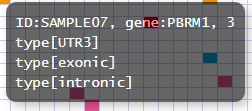
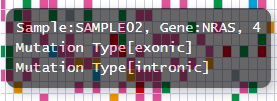
image update

diff --git a/config.rst b/config.rst
@@ -16,44 +16,44 @@
 
   ###################### Mutation Matrix
   [mut]
-  # geneのサンプルに対する検出比(%) 
-  # 値より小さいgeneはplot対象から除外する
-  # 0の場合はすべて出力する
+  # 遺伝子のサンプルに対する検出比 (%)
+  # 値より小さい遺伝子はプロット対象から除外する
+  # 0 の場合はすべて出力する
   use_gene_rate = 0
 
-  # 入力されていた場合、そのgeneのみ出力する
-  # 未入力の場合、検出されたgeneすべて出力する
+  # 入力されていた場合、その遺伝子のみ出力する
+  # 未入力の場合、検出された遺伝子すべて出力する
   # , 区切りで複数指定可能
   #
-  # limited_genes = TP,TTN,APC,BRAF,CDH1,FLT3
-  limited_genes = 
+  # limited_gene = TP,TTN,APC,BRAF,CDH1,FLT3
+  limited_gene = 
   
-  # 入力されていた場合、そのgeneはplot対象から除外する
+  # 入力されていた場合、その遺伝子はプロット対象から除外する
   # , 区切りで複数指定可能
   #
-  # nouse_genes = NONE,MUC4
-  nouse_genes =
+  # nouse_gene = NONE,MUC4
+  nouse_gene =
 
-  # 入力されていた場合、その変異タイプ(func)のみ出力する
-  # 未入力の場合、検出されたfuncすべて出力する
+  # 入力されていた場合、その変異タイプ (group) のみ出力する
+  # 未入力の場合、検出された変異タイプすべて出力する
   # , 区切りで複数指定可能
   #
-  # limited_funcs = exome,splicing
-  limited_funcs = 
+  # limited_group = exome,splicing
+  limited_group = 
   
-  # 入力されていた場合、そのfuncはplot対象から除外する
+  # 入力されていた場合、その変異タイプはプロット対象から除外する
   # , 区切りで複数指定可能
   # 空白行を除去する場合、_blank_ と記入する
-  nouse_funcs = _blank_,unknown,synonymous_SNV
+  nouse_group = _blank_,unknown,synonymous_SNV
   
-  # funcのplot色を指定する。func名:(RGBもしくは色名)
+  # 変異タイプのプロット色を指定する。変異タイプ名:(RGBもしくは色名)
   # , 区切りで複数指定可能
-  # 未入力のfuncはデフォルト色を使用する
-  func_colors = stopgain:#E85299,frameshift_deletion:#F39600,frameshift_insertion:#E60011,nonframeshift_deletion:#9CAEB7
+  # 未入力の変異タイプはデフォルト色を使用する
+  group_color = stopgain:#E85299,frameshift_deletion:#F39600,frameshift_insertion:#E60011,nonframeshift_deletion:#9CAEB7
   
   # ポップアップウィンドウの表示内容
   # 詳細はページ下段の「ポップアップウィンドウの表示内容」に記載
-  tooltip_format_checker_title1 = ID:{id}, gene:{gene}, {#sum_item_value}
+  tooltip_format_checker_title1 = Sample:{id}, gene:{gene}, {#sum_item_value}
   tooltip_format_checker_partial = type[{func}], {chr}:{start}:{end}, [{ref} -----> {alt}]
   tooltip_format_gene_title = gene:{gene}, {#sum_item_value}
   tooltip_format_gene_partial = func:{func}, {#item_value}
@@ -75,10 +75,10 @@
   # コメント行の先頭文字
   comment = #
   
-  # funcが1セルに複数入力されている場合の区切り文字
+  # 変異タイプが 1 行に複数入力されている場合の区切り文字
   sept_func = ";"
   
-  # geneが1セルに複数入力されている場合の区切り文字
+  # 遺伝子が 1 行に複数入力されている場合の区切り文字
   sept_gene = ";"
   
   ##################
@@ -88,7 +88,7 @@
   # func列
   col_func = Merge_Func
   
-  # gene列
+  # 遺伝子列
   col_gene = Gene.refGene
   
   ##################
@@ -174,9 +174,9 @@
 サブプロットとしてクリニカルデータを追加
 ----------------------------------------------
 
-| `view report <http://genomon-project.github.io/paplot/mutation/graph_subplot.html>`_ 
-| `view dataset <https://github.com/Genomon-Project/paplot/blob/master/example/mutation_subplot>`_ 
-| `download dataset <https://github.com/Genomon-Project/paplot/blob/master/example/mutation_subplot.zip?raw=true>`_ 
+| `このセクションで生成するレポートを見る <http://genomon-project.github.io/paplot/mutation/graph_subplot.html>`_ 
+| `このセクションで使用するデータセットを見る <https://github.com/Genomon-Project/paplot/blob/master/example/mutation_subplot>`_ 
+| `このセクションで使用するデータセットをダウンロードする <https://github.com/Genomon-Project/paplot/blob/master/example/mutation_subplot.zip?raw=true>`_ 
 
 変異以外のサンプルに関する情報（例えばクリニカルデータ）をサブプロットとして Mutation Matrix に追加することができます。
 

diff --git a/exec_signature.rst b/exec_signature.rst
@@ -19,7 +19,7 @@ Mutaitonal Signature 実行手順
 pmsignatureに入力する変異のデータファイルは以下のフォーマットである必要があります。
 
  - ヘッダなし、コメント行なし
- - 左から、サンプルID、クロモソーム（chr必要）、posision、リファレンスの塩基、変異の塩基
+ - 左から、サンプルID、染色体（chr必要）、posision、リファレンスの塩基、変異の塩基
  - タブ区切り
 
 余分なデータ列は取り除いてください。
